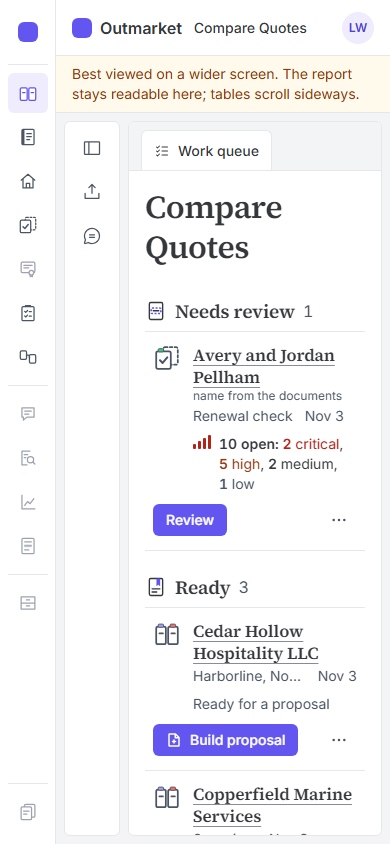
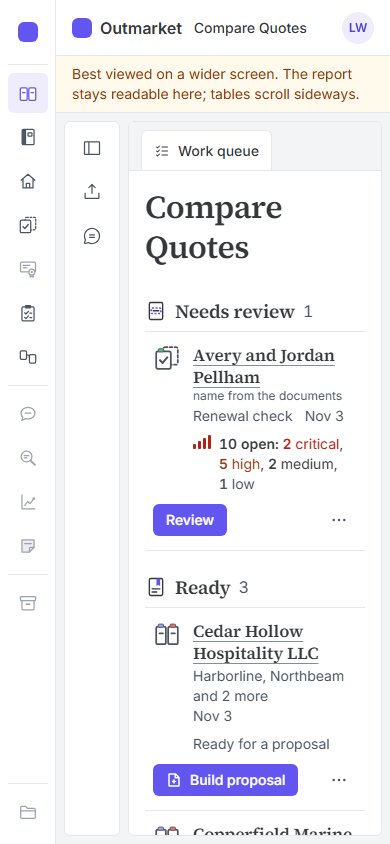
Run wording pass and phone queue rows: carriers wrap instead of clipping
- Descriptive text drops the engine word "run": queue footer "See everything in Activity", report tab
  "Activity", left panel "Recent work", Activity subtitle, upload limits per comparison/proposal,
  Personal lines hint, no-key hint, load errors, cancelled state, proposal limit hint.
  Run numbers stay as reference IDs (owner call).
- Phone (<700px): the queue row meta line wraps so the carrier list is never cut where two rows for
  the same client differ. DESIGN.md records the rule; queue-nav e2e checks no summary clips at 390.

diff --git a/frontend/e2e/queue-nav.spec.ts b/frontend/e2e/queue-nav.spec.ts
@@ -82,7 +82,7 @@ test("the row menu says what it opens; a row without a next step has no Open lin
   await expect(nameLink(page, 2)).toHaveAttribute("href", "#/runs/2");
 });
 
-test("rows show when the work started, and carriers when a client shows twice; one line at 1440, 1024 and 390", async ({ page }) => {
+test("rows show when the work started, and carriers when a client shows twice; one line at 1440 and 1024, full carriers at 390", async ({ page }) => {
   const q = await (await page.request.get(`${API}/api/queue?line=commercial`)).json();
   const items = ["ready", "needs_attention"].flatMap((g) => q[g]) as { run_id: number; client: string | null; created_at: string }[];
   // Seeded: runs 5 and 6 (earlier suites may add more comparisons of the Cedar Hollow fixtures).
@@ -109,9 +109,20 @@ test("rows show when the work started, and carriers when a client shows twice; o
       await expect(row(page, 4).locator(".queue-row__summary")).toHaveText("2 carriers", { useInnerText: true });
       await expect(row(page, 6).locator(".queue-row__when")).toHaveText(/^[A-Z][a-z]{2} \d{1,2}$/, { useInnerText: true });
     }
-    // One line each.
-    const heights = await page.locator(".queue-row__what").evaluateAll((els) => els.map((e) => e.getBoundingClientRect().height));
-    for (const hgt of heights) expect(hgt).toBeLessThan(26);
+    if (w > 700) {
+      // One line each.
+      const heights = await page.locator(".queue-row__what").evaluateAll((els) => els.map((e) => e.getBoundingClientRect().height));
+      for (const hgt of heights) expect(hgt).toBeLessThan(26);
+    } else {
+      // Phone (run-wording pass): the line wraps so the carriers are never cut where the two Cedar Hollow rows differ.
+      const clipped = await page
+        .locator(".queue-row__summary")
+        .evaluateAll((els) => els.filter((e) => e.scrollWidth > e.clientWidth + 1).length);
+      expect(clipped).toBe(0);
+      const five = await row(page, 5).locator(".queue-row__summary").innerText();
+      const six = await row(page, 6).locator(".queue-row__summary").innerText();
+      expect(five).not.toBe(six);
+    }
     await expect
       .poll(() => page.evaluate(() => document.documentElement.scrollWidth - document.documentElement.clientWidth))
       .toBeLessThanOrEqual(0);

diff --git a/frontend/e2e/queue.spec.ts b/frontend/e2e/queue.spec.ts
@@ -108,7 +108,7 @@ test("both pages show the seeded runs in the right groups, named by client", asy
   await expect(row(page, 8).getByRole("button", { name: /^Retry/ })).toBeVisible();
   // Commercial runs never show on Personal lines; Done recently starts collapsed when present.
   for (const id of [1, 2, 3, 4, 5, 6]) await expect(row(page, id)).toHaveCount(0);
-  await expect(page.getByRole("link", { name: "See every run in Activity" })).toHaveAttribute("href", "#/activity?line=personal");
+  await expect(page.getByRole("link", { name: "See everything in Activity" })).toHaveAttribute("href", "#/activity?line=personal");
   await shot(page, "1440-personal");
   await axe(page, "personal 1440");
 
@@ -421,7 +421,7 @@ test("Client field: set on Compare and Policy Check start, edited and cleared in
 test("Activity: line filter, links in and out, cap note", async ({ page }) => {
   const all = (await (await page.request.get(`${API}/api/runs?limit=100`)).json()).runs as { id: number; line: string }[];
   await page.goto("/#/personal-lines");
-  await page.getByRole("link", { name: "See every run in Activity" }).click();
+  await page.getByRole("link", { name: "See everything in Activity" }).click();
   await expect(page).toHaveURL(/#\/activity\?line=personal$/);
   await expect(page).toHaveTitle("Activity");
   await expect(page.getByRole("heading", { level: 1, name: "Activity" })).toBeVisible();
@@ -439,9 +439,9 @@ test("Activity: line filter, links in and out, cap note", async ({ page }) => {
   await shot(page, "1440-activity");
   await axe(page, "activity 1440");
 
-  // The run view's All runs tab opens Activity.
+  // The run view's Activity tab opens Activity.
   await page.goto("/#/runs/7");
-  await expect(page.getByRole("link", { name: "All runs" })).toHaveAttribute("href", "#/activity");
+  await expect(page.getByRole("link", { name: "Activity", exact: true })).toHaveAttribute("href", "#/activity");
 
   // D11: at 100 runs the cap is said out loud.
   const one = (await (await page.request.get(`${API}/api/runs/6`)).json()) as Record<string, unknown>;

diff --git a/frontend/src/activity/ActivityPage.tsx b/frontend/src/activity/ActivityPage.tsx
@@ -19,7 +19,7 @@ const FILTERS: { value: Filter; label: string }[] = [
 
 /**
  * Work queue W2: every run, newest first (the existing RecentRuns list, unchanged), with a line filter. Linked from the
- * bottom of the queue and the run view's "All runs" tab; `?line=` presets the filter and follows it (QUEUE-BRIEF.md).
+ * bottom of the queue and the run view's "Activity" tab; `?line=` presets the filter and follows it (QUEUE-BRIEF.md).
  */
 export function ActivityPage({ preset }: { preset: Line | null }) {
   const [filter, setFilter] = useState<Filter>(preset ?? "all");
@@ -44,7 +44,7 @@ export function ActivityPage({ preset }: { preset: Line | null }) {
         setRuns(r);
         setLoads((l) => l + 1);
       },
-      (e: unknown) => n === seq.current && setError(e instanceof ApiError ? e.message : "Couldn't load the runs."),
+      (e: unknown) => n === seq.current && setError(e instanceof ApiError ? e.message : "Couldn't load recent work."),
     );
   }, [filter]);
 
@@ -66,7 +66,7 @@ export function ActivityPage({ preset }: { preset: Line | null }) {
             <h1 id="activity-title" className="page-title">
               Activity
             </h1>
-            <p className="personal__sub">Every run, newest first.</p>
+            <p className="personal__sub">Every comparison, check and proposal, newest first.</p>
             <fieldset className="line-choice activity__filter">
               <legend className="line-choice__legend">Show</legend>
               <div className="line-choice__seg">

diff --git a/frontend/src/run/RunView.tsx b/frontend/src/run/RunView.tsx
@@ -521,7 +521,7 @@ export function RunView({
               <p className="hint">Compare Quotes has no parameters. Column order follows the upload order.</p>
             )}
           </Accordion>
-          <Accordion title="Recent runs" count={runs?.length}>
+          <Accordion title="Recent work" count={runs?.length}>
             {runs && <RecentRuns runs={runs} compact currentId={runId} />}
           </Accordion>
           <a
@@ -548,7 +548,7 @@ export function RunView({
       <main className="pane" id="main" tabIndex={-1} aria-labelledby="pane-title">
         <nav className="tabs" aria-label="Report and sources">
           <a href="#/activity" className="tab">
-            <ClockCounterClockwise size={16} aria-hidden /> All runs
+            <ClockCounterClockwise size={16} aria-hidden /> Activity
           </a>
           <button
             type="button"
@@ -882,7 +882,7 @@ function RunPlaceholder({
   if (run.status === "cancelled") {
     return (
       <div className="state-block">
-        <p className="state-block__title">This run was cancelled before a report was written.</p>
+        <p className="state-block__title">This was cancelled before a report was written.</p>
         <p className="hint">Retry reads the documents that did not finish.</p>
         {(
           <button type="button" className="btn btn--primary" onClick={onRetryRun}>

diff --git a/frontend/src/wizard/StepDetails.tsx b/frontend/src/wizard/StepDetails.tsx
@@ -113,7 +113,7 @@ export function StepDetails({
         </h3>
         <p className="hint">Each quote becomes a column in the proposal tables, in this order.</p>
         <div id="f-document_ids" tabIndex={-1} className="details__drop" aria-describedby={docError ? "e-document_ids" : undefined}>
-          <DropZone limits={workspace.limits} onFiles={addFiles} title="Drop quote PDFs for this proposal" disabled={draft.docs.length >= maxDocs} />
+          <DropZone limits={workspace.limits} onFiles={addFiles} title="Drop quote PDFs for this proposal" limitsLine={`PDF, up to ${workspace.limits.max_pages} pages and ${workspace.limits.max_megabytes} MB each, ${maxDocs} files per proposal`} disabled={draft.docs.length >= maxDocs} />
         </div>
         {docError && (
           <p id="e-document_ids" className="field__error" role="alert">
@@ -375,7 +375,7 @@ export function UploadedPicker({
         ) : (
           <fieldset>
             <legend className="sr-only">Uploaded files</legend>
-            {full && <p className="hint">{fullText ?? `This proposal has ${max} quotes, the most a run can use.`}</p>}
+            {full && <p className="hint">{fullText ?? `This proposal has ${max} quotes, the most a proposal can use.`}</p>}
             <ul className="picker__list">
               {shown.map((d) => {
                 const on = hashes.has(d.sha256);

diff --git a/frontend/e2e/journey.spec.ts b/frontend/e2e/journey.spec.ts
@@ -26,7 +26,7 @@ test("upload, run, review, chip, edit, chat, export", async ({ page }) => {
   // 1. Opens app: rail, drop zone with limits, recent runs (DG1, DG6).
   await page.goto("/");
   await expect(page.getByText("Drop quote PDFs to compare").first()).toBeVisible();
-  await expect(page.getByText(/up to 300 pages and 50 MB each, 8 files per run/).first()).toBeVisible();
+  await expect(page.getByText(/up to 300 pages and 50 MB each, 8 files per comparison/).first()).toBeVisible();
   // Slices 2 and 3: Proposals and Policy check are live; the rest of the rail still says "coming in a later slice".
   await expect(page.getByRole("link", { name: "Proposals, new proposal" })).toHaveAttribute("href", "#/proposals/new");
   await expect(page.getByRole("link", { name: "Policy check, new check" })).toHaveAttribute("href", "#/policy-check/new");
@@ -152,7 +152,7 @@ test("seeded states: failed, cancelled, budget, fallback, partial", async ({ pag
 
   for (const [name, id, text] of [
     ["failed", failed.id, "No report was written."],
-    ["cancelled", cancelled.id, "This run was cancelled"],
+    ["cancelled", cancelled.id, "This was cancelled"],
     ["budget", budget.id, "token budget ran out"],
     ["fallback", fallback.id, "Retry prose"],
     ["partial", partial.id, "could not be read"],

diff --git a/frontend/src/App.tsx b/frontend/src/App.tsx
@@ -108,7 +108,7 @@ export function App() {
   const personalEntry =
     route.line === "personal" && route.runId == null && !route.wizard && !route.personal && !route.integrations && !route.tasks && !route.activity;
 
-  // Which runs the shell lists: only the run view's "Recent runs" section reads this list now (the run's own line,
+  // Which runs the shell lists: only the run view's "Recent work" section reads this list now (the run's own line,
   // unknown until the run loads). Personal lines and the Compare screen show the work queue; Activity loads its own.
   const listLine: Line | null = route.runId != null ? (runOfRoute?.line ?? null) : null;
   const listLimit = 20;
@@ -122,7 +122,7 @@ export function App() {
         if (seq === listSeq.current) setRuns(r);
       },
       (e: unknown) => {
-        if (seq === listSeq.current) setRunsError(e instanceof ApiError ? e.message : "Couldn't load recent runs.");
+        if (seq === listSeq.current) setRunsError(e instanceof ApiError ? e.message : "Couldn't load recent work.");
       },
     );
   }, [listLine, listLimit]);

diff --git a/frontend/src/launch/Upload.tsx b/frontend/src/launch/Upload.tsx
@@ -21,7 +21,7 @@ export function formatBytes(n: number): string {
 }
 
 export function limitsText(l: Limits): string {
-  return `PDF, up to ${l.max_pages} pages and ${l.max_megabytes} MB each, ${l.max_documents_per_run} files per run`;
+  return `PDF, up to ${l.max_pages} pages and ${l.max_megabytes} MB each, ${l.max_documents_per_run} files per comparison`;
 }
 
 /** DG6 drop zone: states the limits, "Choose files" primary button, inline rejections naming the limit. */
@@ -104,7 +104,7 @@ export function useUploads(limits: Limits | null) {
       seq.current += 1;
       const key = `f${seq.current}`;
       if (accepted >= max) {
-        next.push({ key, name: f.name, size: f.size, status: "rejected", progress: 0, message: `A run compares at most ${max} files. Remove one to add this file.` });
+        next.push({ key, name: f.name, size: f.size, status: "rejected", progress: 0, message: `A comparison takes at most ${max} files. Remove one to add this file.` });
         continue;
       }
       accepted += 1;

diff --git a/frontend/e2e/personal-lines.spec.ts b/frontend/e2e/personal-lines.spec.ts
@@ -192,8 +192,8 @@ test("Re-tag from the run header moves the run between the lists; a failed PATCH
   await expect(crumbs(page)).toHaveText(/^Personal lines.*Policy check.*Avery and Jordan Pellham$/);
   // The rail names the tool: Policy check stays current for a personal Policy Check run.
   await expect(page.getByRole("link", { name: "Policy check, new check" })).toHaveAttribute("aria-current", "page");
-  // Work queue lane (D7 allowed edit): the run view's All runs tab opens Activity (spec section 2).
-  await expect(page.getByRole("link", { name: "All runs" })).toHaveAttribute("href", "#/activity");
+  // Work queue lane (D7 allowed edit): the run view's Activity tab opens Activity (spec section 2).
+  await expect(page.getByRole("link", { name: "Activity", exact: true })).toHaveAttribute("href", "#/activity");
 
   // Personal -> Commercial: PATCH body exactly {"line": "commercial"}, crumbs and toast follow.
   const [patch] = await Promise.all([

diff --git a/frontend/src/personal/PersonalLinesPage.tsx b/frontend/src/personal/PersonalLinesPage.tsx
@@ -48,7 +48,7 @@ export function PersonalLinesPage() {
               <div className="queue-empty">
                 <Glyph name="blank" size={32} className="muted-glyph" />
                 <h2 className="queue-empty__title">No personal-lines work yet.</h2>
-                <p className="hint">Start a comparison or a renewal check. A run can also be moved here from its own page.</p>
+                <p className="hint">Start a comparison or a renewal check. Work can also be moved here from its report.</p>
                 <Actions />
               </div>
             }

diff --git a/frontend/src/launch/LaunchView.tsx b/frontend/src/launch/LaunchView.tsx
@@ -78,7 +78,7 @@ export function LaunchView({
                 {!starting && <ArrowRight size={16} aria-hidden />}
               </button>
               {!workspace.model_configured && (
-                <p className="hint">No model key is set on the server, so runs will fail until one is configured.</p>
+                <p className="hint">No model key is set on the server, so documents can't be read until one is configured.</p>
               )}
             </div>
           </Accordion>

diff --git a/frontend/src/queue/queue.css b/frontend/src/queue/queue.css
@@ -284,6 +284,15 @@
   .queue-row__clock {
     display: none;
   }
+  /* The column is too narrow for one line: the carriers were cut right where two rows for one client differ
+     ("Harborline, N..." vs "Harborline, J..."), so the line wraps instead and the date keeps the end. */
+  .queue-row__what {
+    flex-wrap: wrap;
+    white-space: normal;
+  }
+  .queue-row__summary {
+    overflow: visible;
+  }
 }
 
 .queue-row__status {
